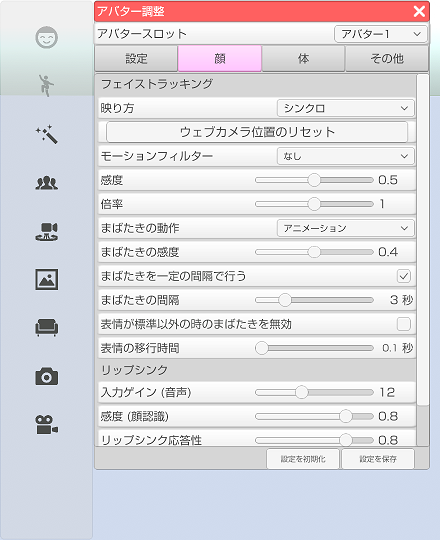
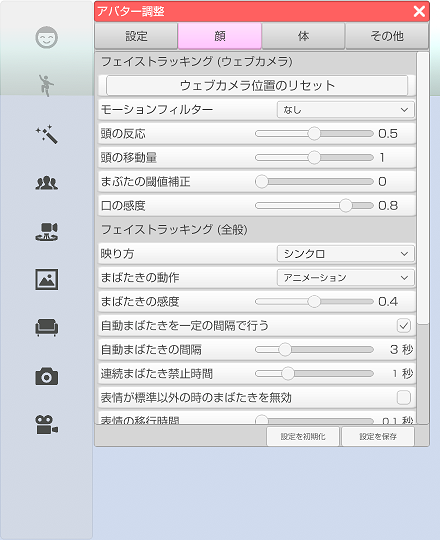
アバター調整のフェイストラッキングの説明を最新版に合わせて修正。

Changed region(s): [[0.2068, 0.0296, 0.975, 0.8889]]

diff --git a/AdjustAvaterFace.md b/AdjustAvaterFace.md
@@ -14,12 +14,7 @@
 >顔タブを選択します。
 
 
-### フェイストラッキング
-
->#### 映り方
-
->・シンクロ → アバターが顔認識の結果で動きます。（左を向くとアバターは向かって右を向く。）
->・鏡 → アバターが顔認識の左右逆で動きます。（左を向くとアバターは向かって左を向く。）
+### フェイストラッキング (ウェブカメラ)
 
 >#### ウェブカメラ位置のリセット
 
@@ -29,13 +24,29 @@
 
 >ウェブカメラ使用時に動きにフィルターを通します。
 
->#### 感度
+>#### 頭の反応
 
->値を大きくするとフェイストラッキングの動き出すタイミングが敏感になります。
+>値を大きくすると頭のフェイストラッキングの動き出すタイミングが敏感になります。
 
->#### 倍率
+>#### 頭の移動量
 
->値を大きくするとフェイストラッキングの動きが激しくなります。
+>値を大きくすると頭の動きが激しくなります。
+
+>#### まぶたの閾値補正
+
+>まぶたの判定に関する値を調整します。
+>まばたきの動作を「取得パラメータ」に変更すると確認がしやすいです。
+
+>#### 口の感度
+
+>口を動かした場合の感度を変更します。
+
+### フェイストラッキング (全般)
+
+>#### 映り方
+
+>・シンクロ → アバターが顔認識の結果で動きます。（左を向くとアバターは向かって右を向く。）
+>・鏡 → アバターが顔認識の左右逆で動きます。（左を向くとアバターは向かって左を向く。）
 
 >#### まばたきの動作
 
@@ -50,14 +61,19 @@
 
 >まばたきアニメーションの開始判定を変更します。
 
->#### まばたきを一定の間隔で行う
+>#### 自動まばたきを一定の間隔で行う
 
 >オンにするとフェイストラッキングが動作していない場合に
 >アバターがまばたきをします。
 
->#### まばたきの間隔
+>#### 自動まばたきの間隔
 
 >まばたきをするまでの間隔を変更します。
+
+>#### 連続まばたき禁止時間
+
+>まばたきをしてから指定されている時間を経過しないとまばたきをしません。
+>※自動まばたきは対象となりません。
 
 >#### 表情が標準以外の時のまばたきを無効
 
@@ -75,13 +91,13 @@
 >音声認識を使用している場合の音に対する感度を変更します。
 >設定「システム」の「マイク入力を再生する」をオンにした場合の音量も変化します。
 
->#### 感度（顔認識）
-
->顔認識のリップシンクの変化量を変更します。
-
->#### リップシンクの応答性
+>#### 応答性（顔認識）
 
 >顔認識のリップシンクの応答性を変更します。
+
+>#### 応答性（音声）
+
+>音声のリップシンクの応答性を変更します。
 
 
 ### 目線
